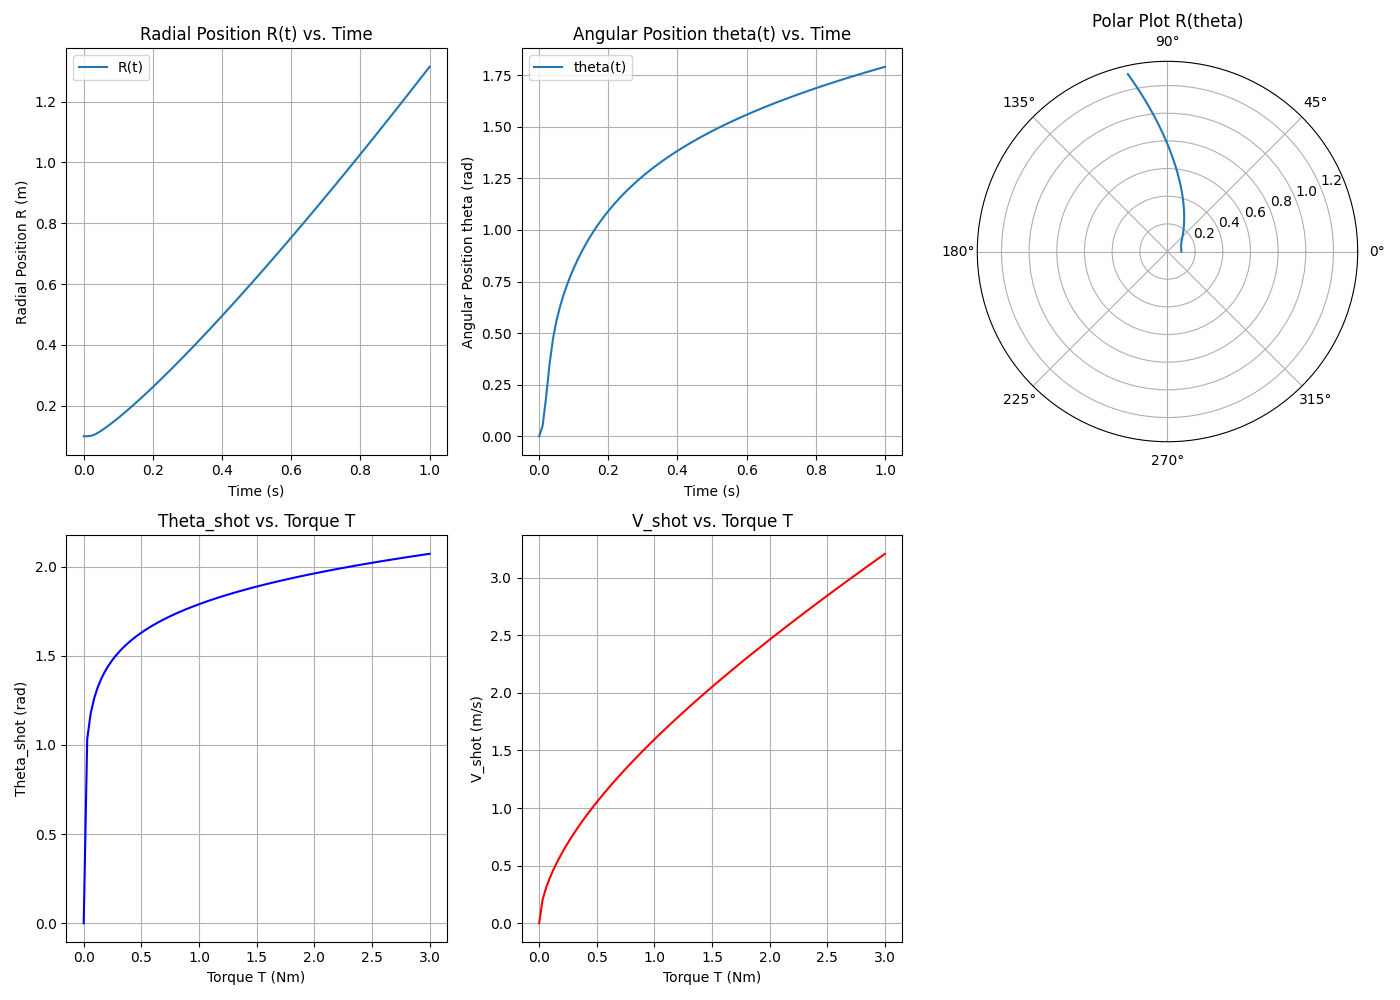
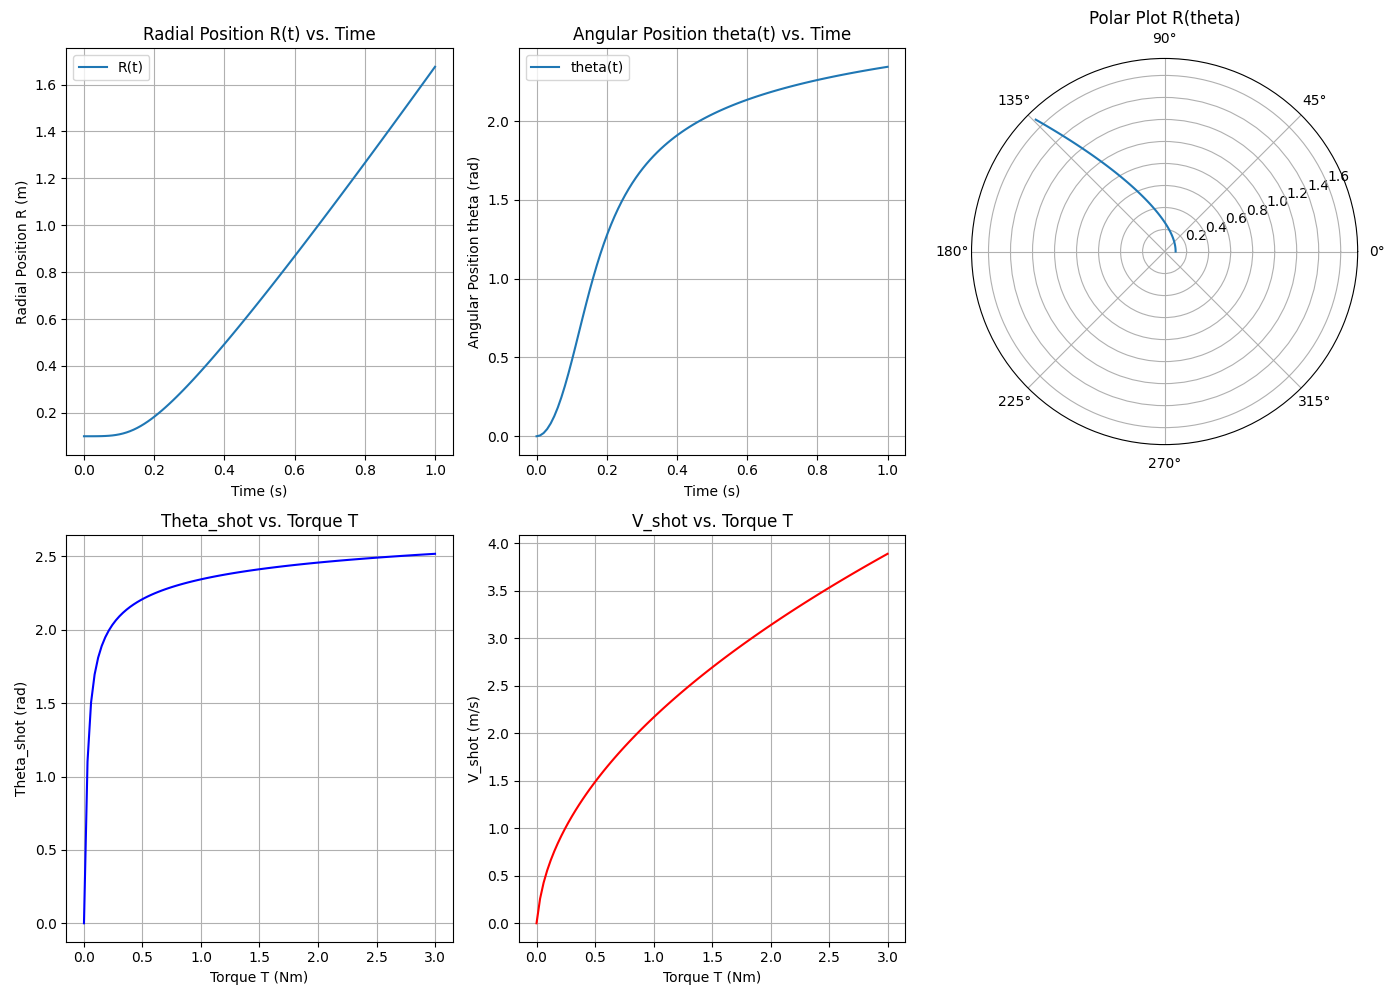
fix dtheta_ddot equation

diff --git a/Module/Solve_equation.py b/Module/Solve_equation.py
@@ -3,7 +3,7 @@ from scipy.integrate import solve_ivp
 def equations_of_motion(t, y, T, m):
     R, R_dot, theta, theta_dot = y
     dR_ddot = R * theta_dot**2
-    dtheta_ddot = ((T / R) - (2 * m * R_dot * theta_dot)) / (m * R**2)
+    dtheta_ddot = ((T / R) - (2 * m * R_dot * theta_dot)) / (m * R)
     return [R_dot, dR_ddot, theta_dot, dtheta_ddot]
 
 def solve_equations(equations, t_span, y0, t_eval, T, m):
